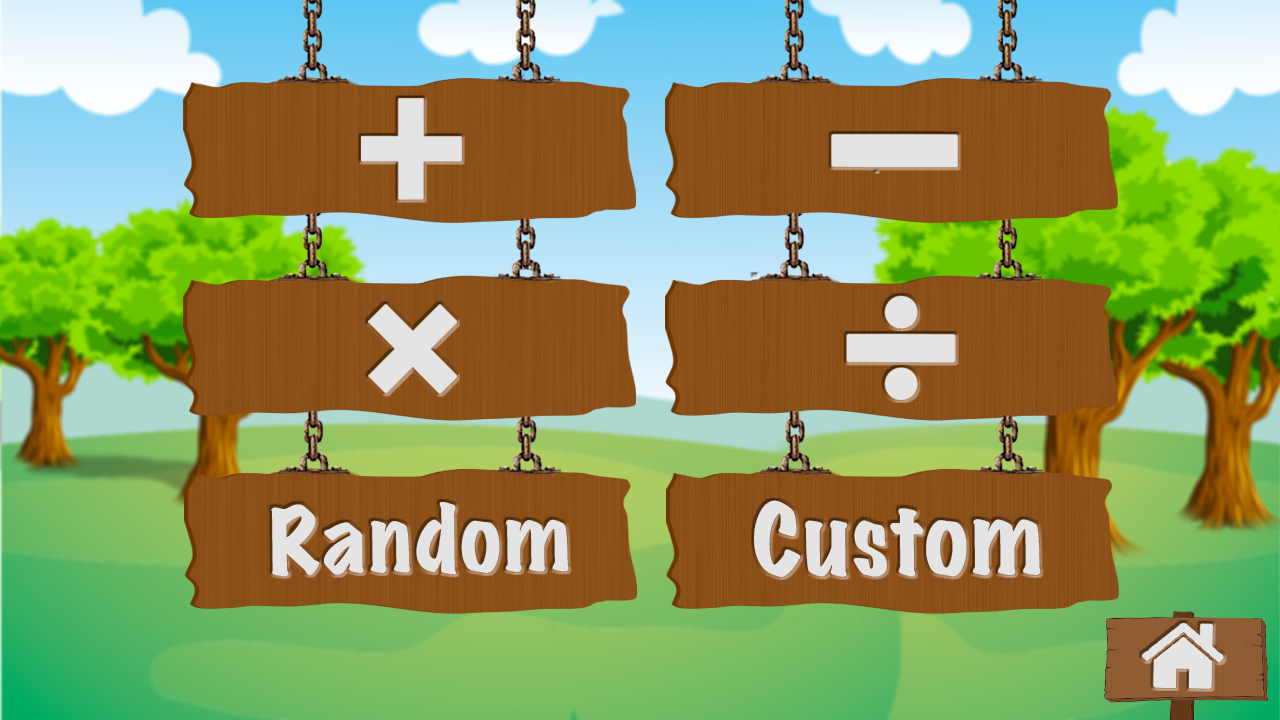
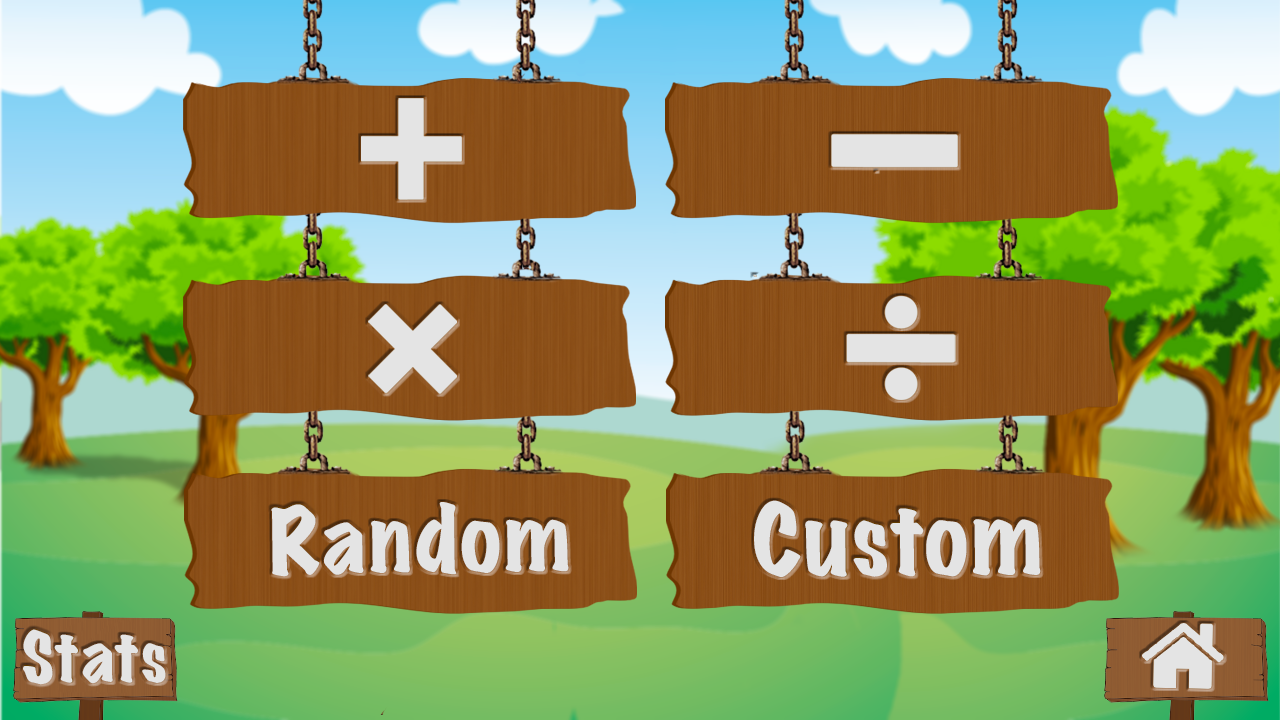
Added stats view

Changed region(s): [[0.0, 0.825, 0.1562, 1.0]]

diff --git a/src/model/ModeDirector.java b/src/model/ModeDirector.java
@@ -9,13 +9,23 @@ public class ModeDirector {
     public enum Type { PRACTICE, MATH };
     private ModeDirector.Mode _currentMode;
     private ModeDirector.Type _currentType;
-    private int _totalScore;
+
     private int _score = 0;
-    private int _totalIterations;
     private int _iteration = 0;
     private int _numQuestions;
     private String _currentAnswer;
     private String _currentAttempt;
+
+    private int _totalAddScore = 0;
+    private int _totalSubScore = 0;
+    private int _totalMultScore = 0;
+    private int _totalDivScore = 0;
+    private int _totalAddIterations = 0;
+    private int _totalSubIterations = 0;
+    private int _totalMultIterations = 0;
+    private int _totalDivIterations = 0;
+    private int _totalScore = 0;
+    private int _totalIterations = 0;
 
     //Singleton Constructor
     public static ModeDirector instance() {
@@ -31,8 +41,52 @@ public class ModeDirector {
     }
 
     public void updateStats(int score, int iterations) {
+        if (_currentMode == Mode.MATH_ADD) {
+            _totalAddScore+=score;
+            _totalAddIterations+=iterations;
+        }
+        else if (_currentMode == Mode.MATH_SUB) {
+            _totalSubScore+=score;
+            _totalSubIterations+=iterations;
+        }
+        else if (_currentMode == Mode.MATH_MULT) {
+            _totalMultScore+=score;
+            _totalMultIterations+=iterations;
+        }
+        else if (_currentMode == Mode.MATH_DIV) {
+            _totalDivScore+=score;
+            _totalDivIterations+=iterations;
+        }
         _totalScore+=score;
         _totalIterations+=iterations;
+    }
+
+    public int getStats(Mode mode) {
+        if (mode == Mode.MATH_ADD) {
+            if (_totalAddIterations == 0) {
+                return 0;
+            }
+            return _totalAddScore/_totalAddIterations;
+        }
+        else if (mode == Mode.MATH_SUB) {
+            if (_totalSubIterations == 0) {
+                return 0;
+            }
+            return _totalSubScore/_totalSubIterations;
+        }
+        else if (mode == Mode.MATH_MULT) {
+            if (_totalMultIterations == 0) {
+                return 0;
+            }
+            return _totalMultScore/_totalMultIterations;
+        }
+        else if (mode == Mode.MATH_DIV) {
+            if (_totalDivIterations == 0) {
+                return 0;
+            }
+            return _totalDivScore/_totalDivIterations;
+        }
+        return 0;
     }
 
     public void setMode(ModeDirector.Mode mode) {

diff --git a/src/controller/StatsViewController.java b/src/controller/StatsViewController.java
@@ -1,0 +1,34 @@
+package controller;
+
+import javafx.fxml.FXML;
+import javafx.fxml.Initializable;
+import javafx.scene.control.Label;
+import model.ModeDirector;
+
+import java.net.URL;
+import java.util.ResourceBundle;
+
+public class StatsViewController extends AbstractController implements Initializable {
+    private static ModeDirector _modeDirector = ModeDirector.instance();
+
+    @FXML
+    Label addLbl;
+    @FXML
+    Label subLbl;
+    @FXML
+    Label multLbl;
+    @FXML
+    Label divLbl;
+
+    @Override
+    public void initialize(URL location, ResourceBundle resources) {
+        addLbl.setText("Addition: " + _modeDirector.getStats(ModeDirector.Mode.MATH_ADD) + "% Accuracy");
+        subLbl.setText("Subtraction: " + _modeDirector.getStats(ModeDirector.Mode.MATH_SUB) + "% Accuracy");
+        multLbl.setText("Multiplication: " + _modeDirector.getStats(ModeDirector.Mode.MATH_MULT) + "% Accuracy");
+        divLbl.setText("Division: " + _modeDirector.getStats(ModeDirector.Mode.MATH_DIV) + "% Accuracy");
+    }
+
+    public void returnToMathView() {
+        popChild();
+    }
+}

diff --git a/src/controller/MathViewController.java b/src/controller/MathViewController.java
@@ -53,6 +53,10 @@ public class MathViewController extends AbstractController{
         sceneChange("MenuView");
     }
 
+    public void stats() {
+        pushChild("StatsView");
+    }
+
 
 
 }
